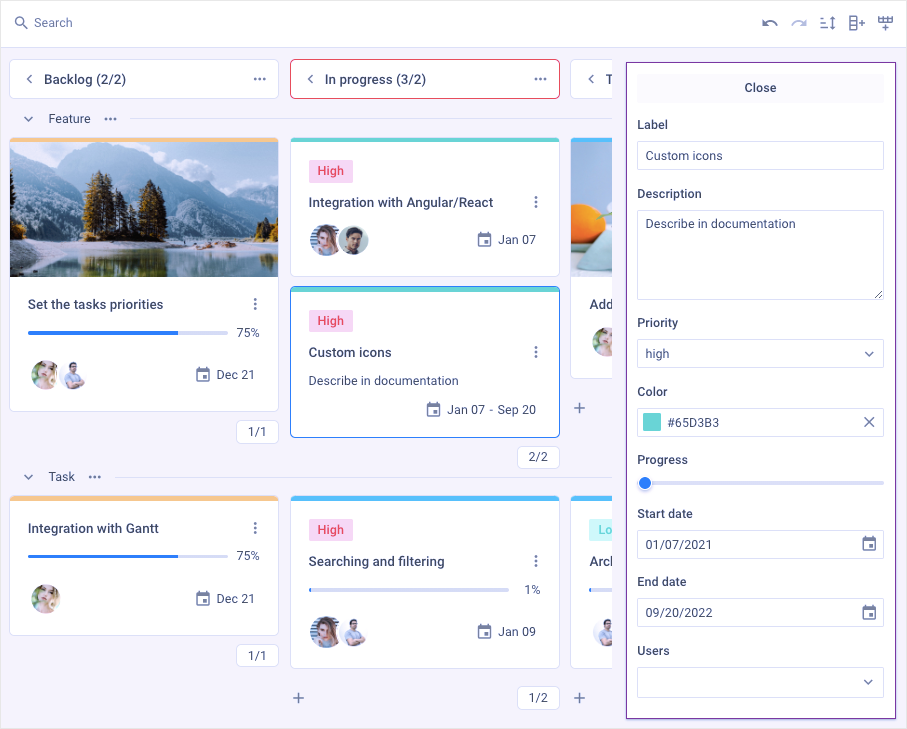
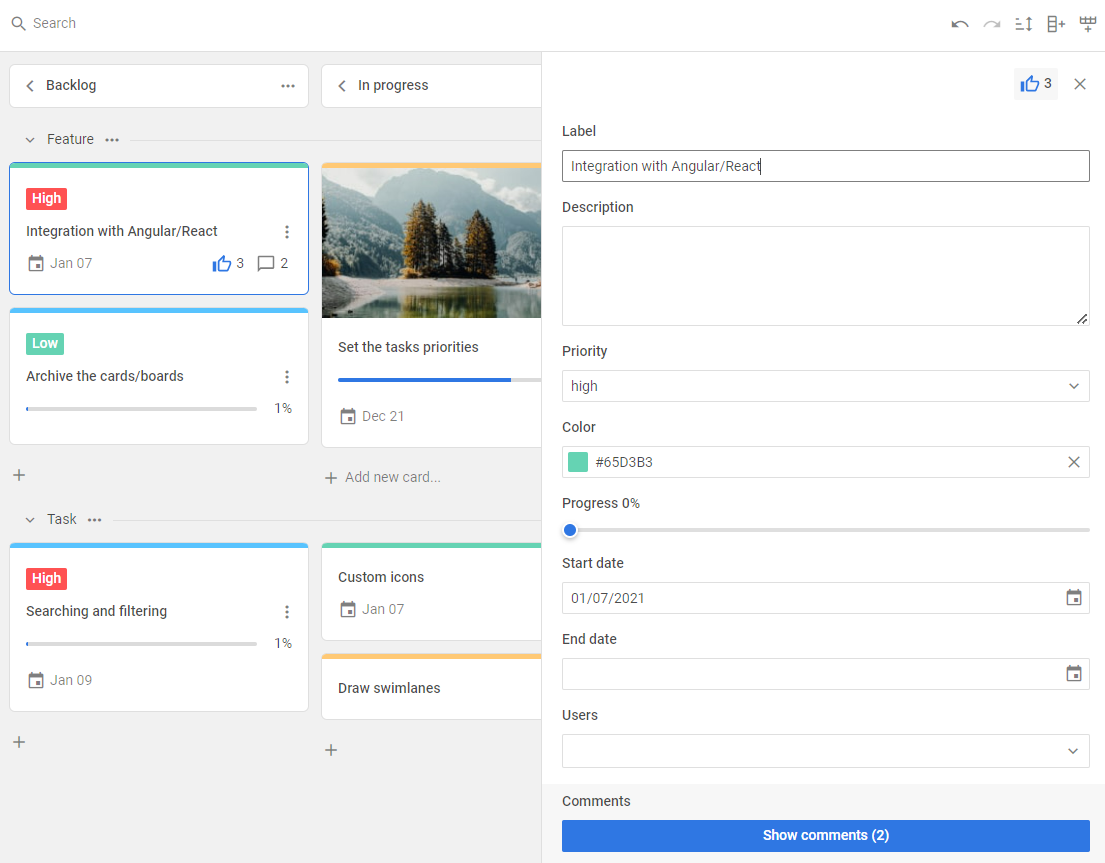
[update] screenshots and main page overview

diff --git a/docs/index.md b/docs/index.md
@@ -24,6 +24,8 @@ The **Board** is main part of Kanban. It consists of the cards distributed into 
 On the **Board** panel you can work with the ***cards***, ***columns*** and ***rows*** in the following way:
 
 - add new cards by clicking on the plus icon (in accordance with the specified *limits* for each column and swimlane)
+- add comments and votes for tasks via the editor panel ([Example](https://snippet.dhtmlx.com/5hcx01h4?tag=kanban))
+- set links between tasks via the editor ([Example](https://snippet.dhtmlx.com/81qu7qh0?tag=kanban))
 - delete cards, columns and rows using a context menu (a 3 dots icon)
 - duplicate cards using a context menu (a 3 dots icon) or the `Ctrl (Command)`+`D` shortcuts (allows duplicating multiple cards)
 - export Kanban data to a JSON file

diff --git a/docs/how_to_start.md b/docs/how_to_start.md
@@ -8,7 +8,7 @@ description: You can explore how to start working with DHTMLX Kanban in the docu
 
 This clear and comprehensive tutorial will guide your through the steps you need to take in order to get a full-functional Kanban on a page.
 
-![JS Kanban Main](assets/js_kanban_main.png)
+![JS Kanban Main](assets/js_kanban_editor.png)
 
 ## Step 1. Including source files
 
